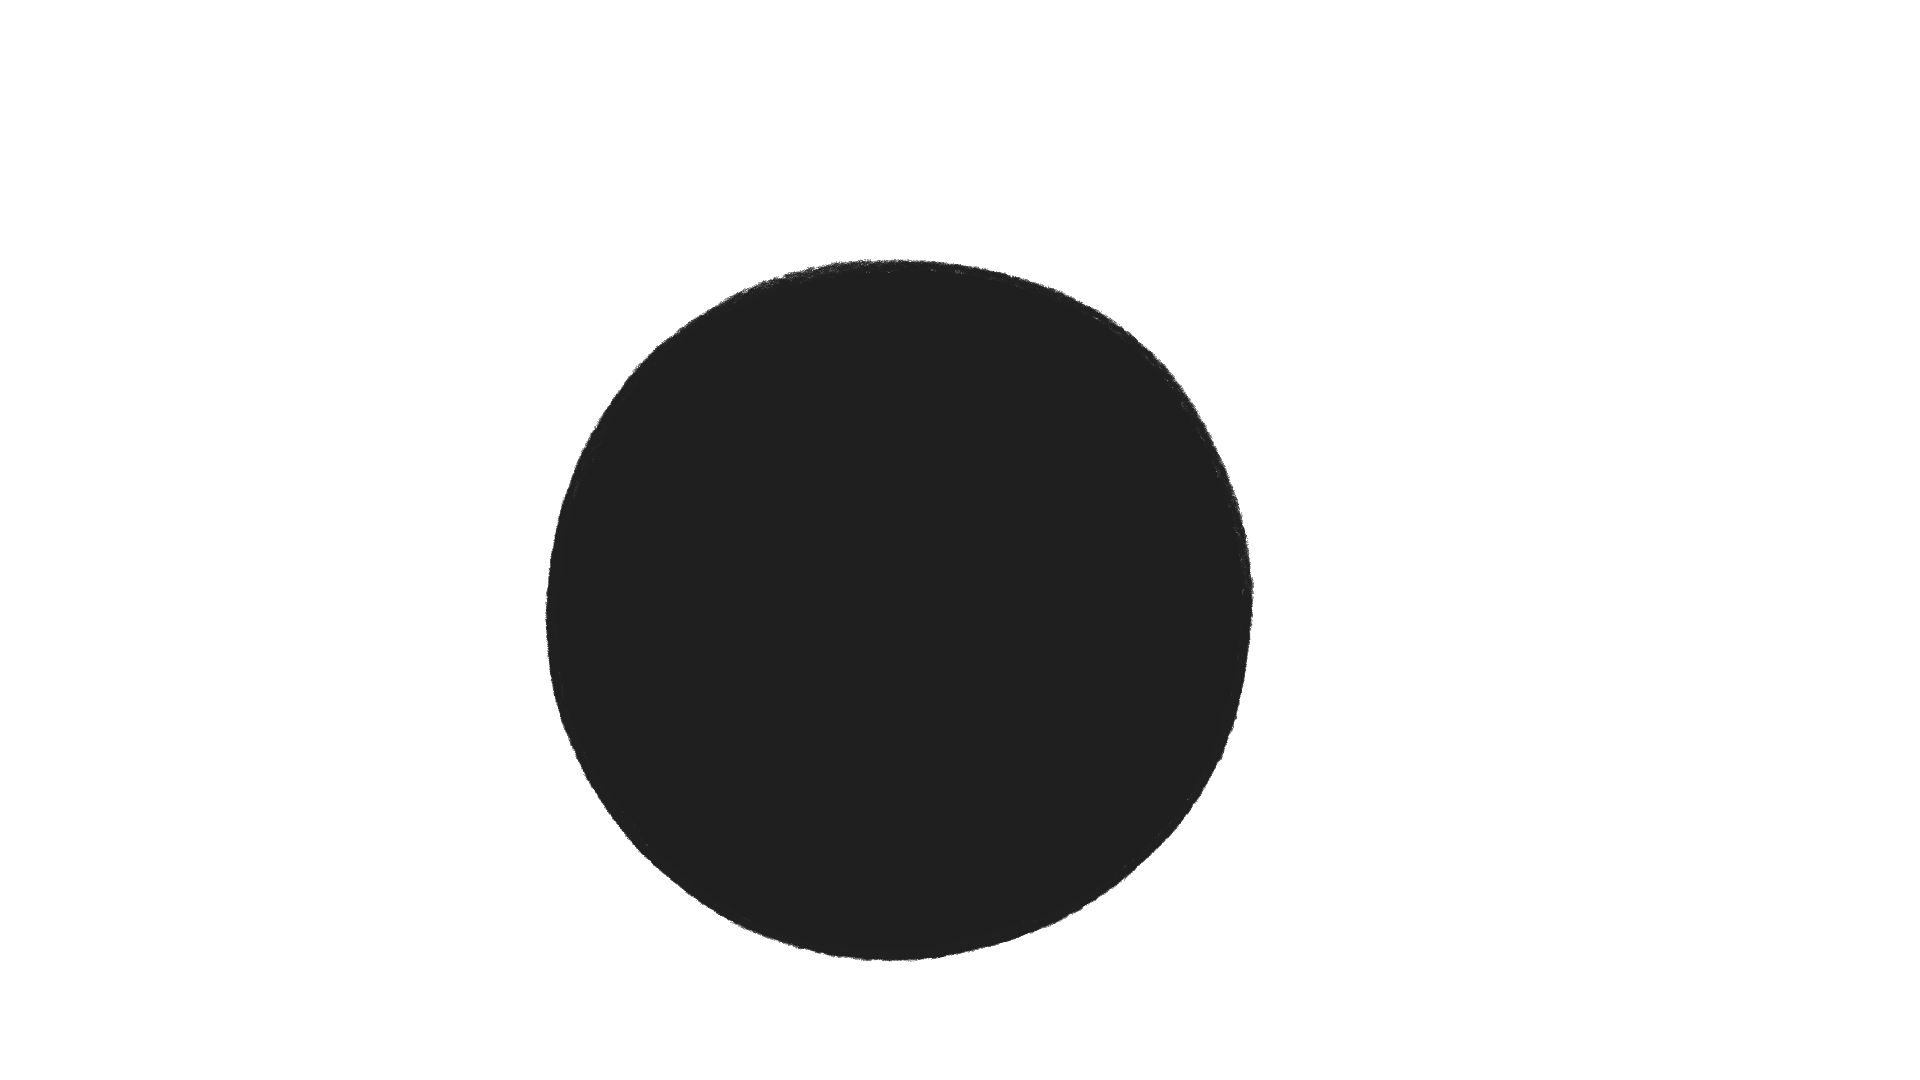
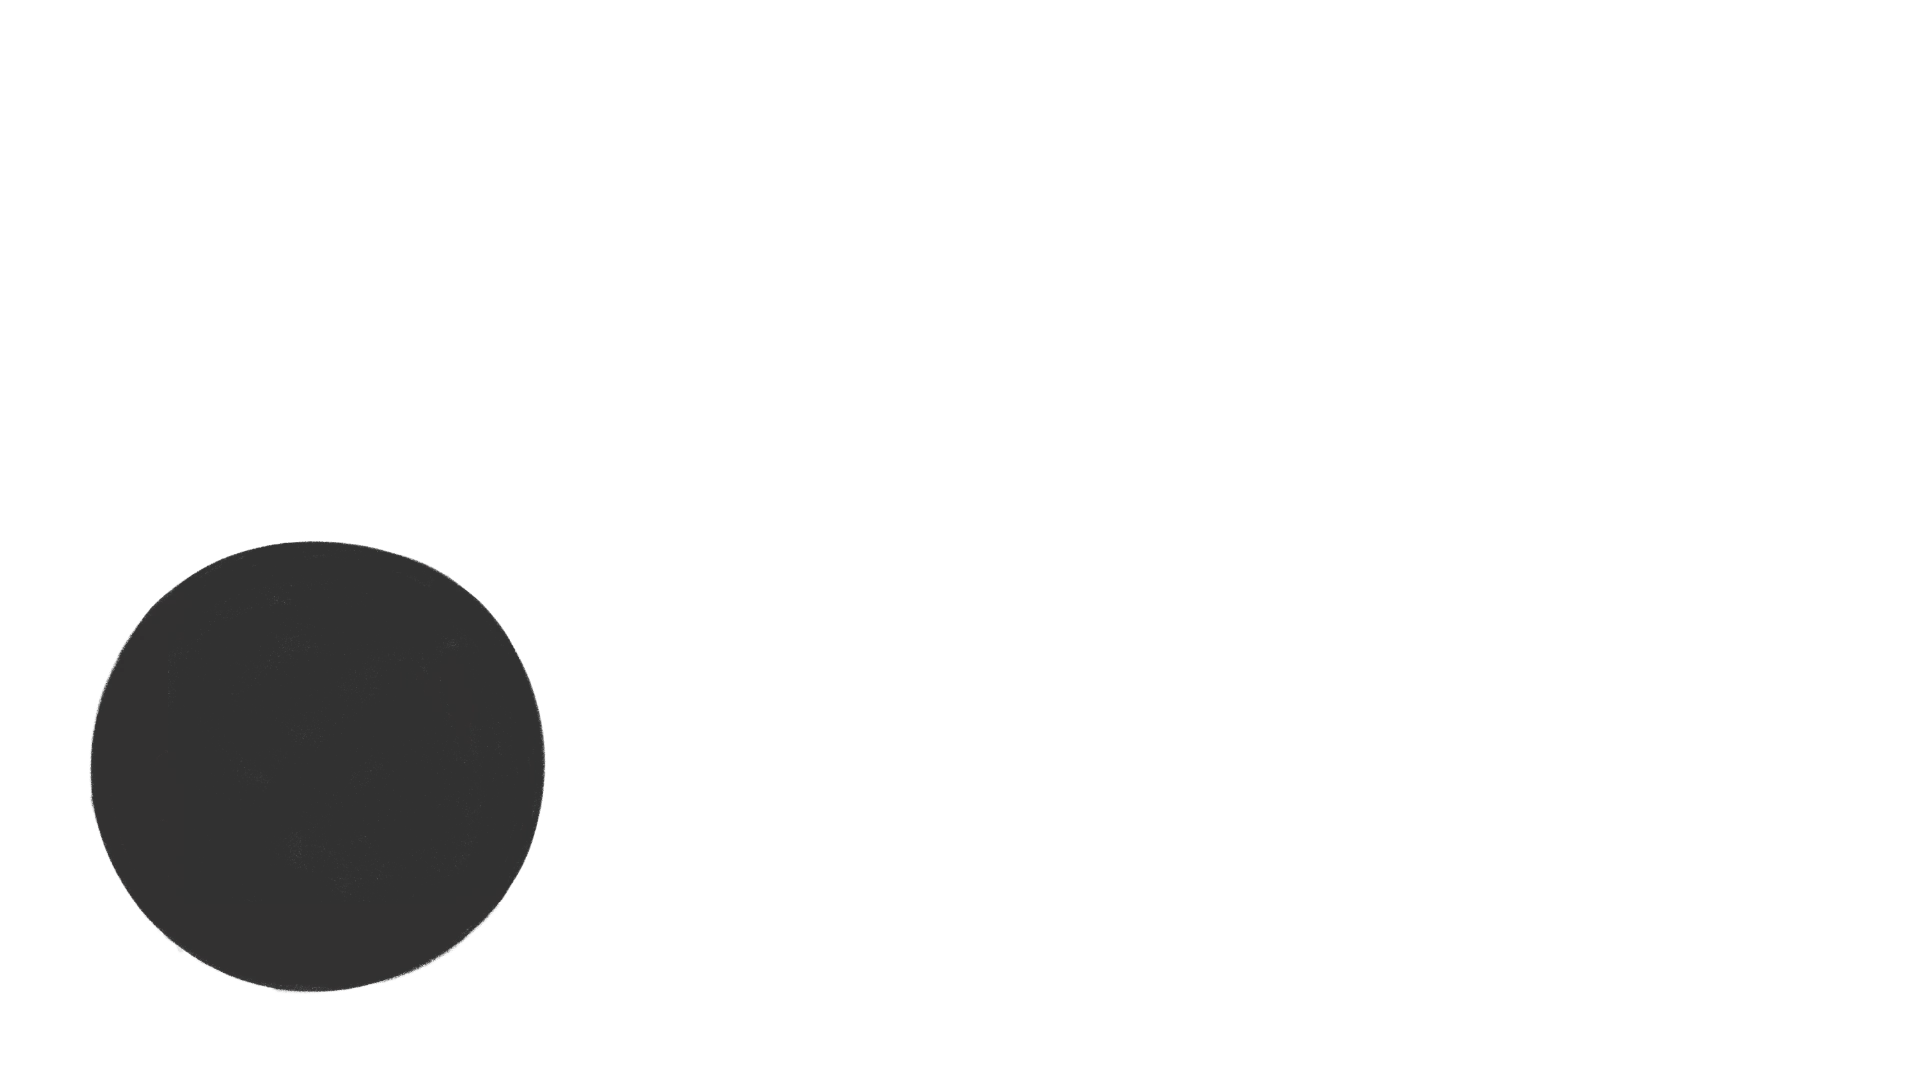
arr

Changed region(s): [[0.0312, 0.2139, 0.6562, 0.9167]]

diff --git a/sketch.js b/sketch.js
@@ -148,11 +148,11 @@ function preload() {
 
   //Seite 2
   weißerkasten= loadImage("seite2/weißer kasten.png");
-  frau1= loadImage("seite2/woman1.png");
-  frau2= loadImage("seite2/woman2.png");
-  frau3= loadImage("seite2/woman3.png");
-  frau4= loadImage("seite2/woman4.png");
-  frau5= loadImage("seite2/woman5.png");
+  frau1= loadImage("seite2/woman1.webp");
+  frau2= loadImage("seite2/woman2.webp");
+  frau3= loadImage("seite2/woman3.webp");
+  frau4= loadImage("seite2/woman4.webp");
+  frau5= loadImage("seite2/woman5.webp");
   tinypeople= loadImage("seite2/tiny people.png");
 
 
@@ -162,7 +162,7 @@ function preload() {
 }
 
 function setup() {
-  createCanvas(windowWidth, windowHeight * 2.025);
+  createCanvas(windowWidth, windowHeight * 1.98);
   updateCachedValues();
   frameRate(30);
   pixelDensity(0.8);
@@ -187,7 +187,7 @@ function updateCachedValues() {
     definitionX: windowWidth / 29.8,
     definitionY: windowWidth / 12.3,
     diagramTitelSize: windowWidth / 68.5,
-    diagram1TitelY: windowWidth / 4.6,
+    diagram1TitelY: windowWidth / 4.35,
     percentSize: windowWidth / 28.8,
     labelSize: windowWidth / 66.755319,
     smallTextSize: windowWidth / 112,
@@ -208,10 +208,13 @@ function updateCachedValues() {
     diagram1: {
       arcX: windowWidth / 7,
       arcY: windowWidth / 2.4,
-      arcS: windowWidth / 2.886044,
+      //arcS: windowWidth / 2.886044,
+      arcS: windowWidth / 4.8,
       rotation: HALF_PI / 1.525,
-      imgX: windowWidth / 41.833333 - windowWidth/16,
-      imgY: windowWidth / 10.4
+      //imgX: windowWidth / 41.833333 - windowWidth/16,
+      //imgY: windowWidth / 10.4
+      imgX: windowWidth / 41.833333,
+      imgY: 0
     },
     diagram2: {
       arcX: windowWidth / 1.46,
@@ -398,7 +401,7 @@ function drawTexts() {
   textFont(fließtext);
   textSize(cachedValues.textSizeFließtext);
   textLeading(cachedValues.textLeading);
-  text('A deepfake is a piece of media - such as a photo,audio or video,that has been altered\ngenerated or falsified using artificial intelligence (AI)techniques, to convincingly replace\none persons face or voice.\nAs a result, it creates people and events that do not exist or that did not actually occur.\n\nOver time, the definition of the term deepfake has evolved.\nWhereas in 2017 and 2018 it was applied exclusively to visual media explicitly created\nby "Deepfake AI" by 2022 the term had come to be used to describe images and videos\nthat had been eiter obviously or allegedly falsified by any form of artificial intelligence.',
+  text("A deepfake is a piece of media - such as a photo, audio or video, that has been altered,\ngenerated or falsified using generative A.I, to convincingly replace\none persons face or voice.\nAs a result, it creates images of people and events that do not exist or that did not actually occur.",
   cachedValues.definitionX, cachedValues.definitionY);
   
   // Diagramm 1 Texte (mit Opacity)
@@ -751,12 +754,12 @@ function drawpage2() {
   textFont(fließtext);
   textSize(cachedValues.textSizeFließtext);
   textLeading(cachedValues.textLeading);
-  text('For years, women have faced sexual harassment online. With the rise of artificial intelligence, its only\ngetting worse.Deepfakes, which use A.I. to create manipulated, but hyper-realistic images and videos of\nreal people in fake situations, are routinely used against women. Data reveals very strong global growth in\ndeepfake pornography videos, particularly those created without consent. The total number of deepfakes\nonline is projected to rise from approximately 500,000 in 2023 to around 8 million in 2025, representing\nexponential global growth. Some reports indicate that the volume of deepfakes roughly doubles every six\nmonths.',
+  text("For years, women have faced sexual harassment. With the rise of artificial intelligence, it's only\ngetting worse.Deepfakes, which use A.I. to create manipulated, but hyper-realistic images and videos of\nreal people in fake situations, are routinely used against women. Data reveals very strong global growth in\ndeepfake pornography videos, particularly those created without consent. The total number of deepfakes\nonline was projected to rise from approximately 500,000 in 2023 to around 8 million in 2025, representing\nexponential global growth. Some reports indicate that the volume of deepfakes roughly doubles every six months.",
   windowWidth/1.935, windowWidth/1.4);
 
   textFont(headline);
   textSize( cachedValues.percentSize); 
-  textLeading(windowWidth / 33); 
+  textLeading(windowWidth / 30); 
   text('Women who have been \naffected by deepfakes',
   windowWidth/1.935, windowWidth/1.55);
 
@@ -776,7 +779,7 @@ function drawpage2() {
   } else if (aktuellerButton === 4) {
     image(frau4, windowWidth/40-windowWidth/12, windowWidth/1.6, windowWidth, cachedValues.neueHoehe);
   } else if (aktuellerButton === 5) {
-    image(frau5, windowWidth/40-windowWidth/13, windowWidth/1.55, windowWidth, cachedValues.neueHoehe);
+    image(frau5, windowWidth/40-windowWidth/30, windowWidth/1.55, windowWidth, cachedValues.neueHoehe);
   }
   pop();
 
